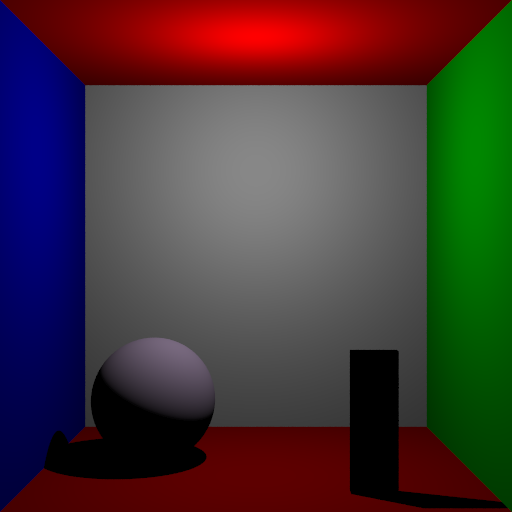
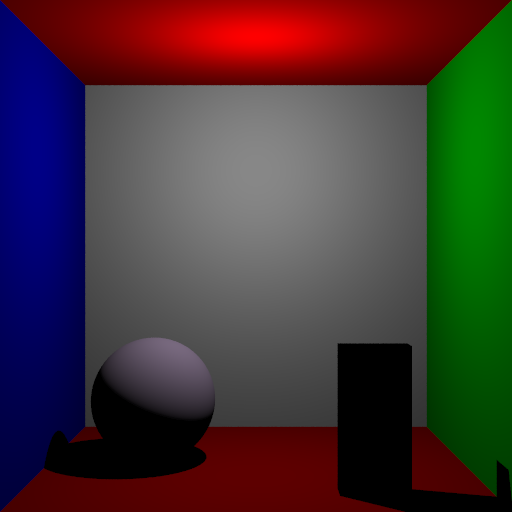
normal en intersecta

Changed region(s): [[0.6562, 0.6562, 1.0, 1.0]]

diff --git a/P4/monolito.cpp b/P4/monolito.cpp
@@ -23,7 +23,7 @@ Monolito::Monolito(PD c, PD i, PD j, PD k, Emision emisionIn, Reflectancia refle
 }
 
 	
-bool Monolito::intersecta(Ray ray, PD& puntoInterseccionOut) const{
+bool Monolito::intersecta(Ray ray, PD& puntoInterseccionOut, PD& normalOut) const{
 	PD aux = ray.origen - centro;
 	//TODO: quizas añadir soporte a todo tipo de paralelepipedo y no solo rectangulo, o al menos comprobar que i,j,k son paralelos
 	const float origen[3] = {
@@ -40,6 +40,11 @@ bool Monolito::intersecta(Ray ray, PD& puntoInterseccionOut) const{
 	float tmin = -numeric_limits<float>::infinity();
 	float tmax = numeric_limits<float>::infinity();
 
+	int ejeMin = 0;
+    float signoMin = 0.0f;
+    int ejeMax = 0;
+    float signoMax = 0.0f;
+
 	for (int eje = 0; eje < 3; ++eje) {
 		if (abs(direccion[eje]) < 1e-6f) {
 			if (abs(origen[eje]) > 1.0f) return false; //si es paralelo y esta fuera, no hay choque
@@ -48,21 +53,49 @@ bool Monolito::intersecta(Ray ray, PD& puntoInterseccionOut) const{
 
 		float t1 = (-1.0f - origen[eje]) / direccion[eje];
 		float t2 = ( 1.0f - origen[eje]) / direccion[eje];
-		if (t1 > t2) swap(t1, t2);
+		float s1 = -1.0f; //normal hacia -u
+		float s2 = 1.0f; //normal hacia u
 
-		tmin = max(tmin, t1); //la entrada mas rande
-		tmax = min(tmax, t2); //la salida mas pequeña
+		if (t1 > t2) {
+			swap(t1, t2);
+			swap(s1, s2);
+		}
+
+		if(t1 > tmin) {
+			tmin = t1;
+			ejeMin = eje;
+			signoMin = s1;
+		}
+		if(t2 < tmax){
+			tmax = t2;
+			ejeMax = eje;
+			signoMax = s2;
+		}
+
 		if (tmin > tmax) return false;
 	}
 
 	if (tmax < 1e-6f) return false; //monolito detras del rayo
 
-	//si tmin <0 el rayo sale de dentro, la salida tmax es el primer punto de contacto
-	float tHit = (tmin >= 0) ? tmin : tmax;
+	float tHit;
+    int ejeHit;
+    float signoHit;
 
-	//no se compara con 0 por si el rayo saliera directamente de la superficie del monolito
+    if (tmin >= 1e-4f) { //no comparo con 0 para que no se choque consigo mismo un rayo que salga de la superficie
+        //impacto exterior normal
+        tHit = tmin;
+        ejeHit = ejeMin;
+        signoHit = signoMin;
+    } else {
+        //si sale de dentro
+        tHit = tmax;
+        ejeHit = ejeMax;
+        signoHit = signoMax;
+    }
 
 	puntoInterseccionOut = ray.origen + ray.direccion * tHit;
+	const PD ejes[3] = { uI, uJ, uK };
+	normalOut = ejes[ejeHit] * signoHit;
 	return true;
 }
 

diff --git a/P4/ray.cpp b/P4/ray.cpp
@@ -31,15 +31,17 @@ bool Ray::intersecta(Escena escena, PD& puntoInterseccionOut, Emision& emisionOu
 	emisionOut.g = 0;
 	emisionOut.b = 0;
 	PD puntoInterseccionTemp;
+	PD normal, normalAux;
 	Primitiva* primitivaCercana;
 
 	for (const auto& primitiva : escena.primitivas) {
-		if (primitiva->intersecta(*this, puntoInterseccionTemp)) {
+		if (primitiva->intersecta(*this, puntoInterseccionTemp, normalAux)) {
 			float distancia = (puntoInterseccionTemp - origen).module();
 			if (distancia < distanciaMinima) {
 				distanciaMinima = distancia;
 				primitivaCercana = primitiva;
 				puntoInterseccionOut = puntoInterseccionTemp;
+				normal = normalAux;
 				interseccionEncontrada = true;
 			}
 		}
@@ -48,7 +50,6 @@ bool Ray::intersecta(Escena escena, PD& puntoInterseccionOut, Emision& emisionOu
 	if(interseccionEncontrada){
 		Emision emLuz = {0,0,0};
 
-		PD normal = primitivaCercana -> getNormal(puntoInterseccionOut);
 		if(normal.dot(this->direccion) > 0) { //si esta mirando hacia el otro lado
 			normal = normal * -1.0;
 		}
@@ -61,9 +62,10 @@ bool Ray::intersecta(Escena escena, PD& puntoInterseccionOut, Emision& emisionOu
 			Ray rayoSombra(puntoInterseccionOut + normal * 0.00001f, wi);
 			bool enSombra = false;
 			PD puntoInterseccionRayoSombra;
+			PD auxNormal;
 
 			for (const auto& primitiva : escena.primitivas) {
-				if (primitiva->intersecta(rayoSombra, puntoInterseccionRayoSombra)) {
+				if (primitiva->intersecta(rayoSombra, puntoInterseccionRayoSombra, auxNormal)) {
 					float distObstaculo = (puntoInterseccionRayoSombra - rayoSombra.origen).module();
 					if (distObstaculo < dist) {
 						enSombra = true;

diff --git a/P4/esfera.cpp b/P4/esfera.cpp
@@ -8,7 +8,7 @@ Esfera::Esfera(PD centroIn, float radioIn, Emision emisionIn, Reflectancia refle
 { if(!centroIn.isPoint()) std::cerr << "El centro de la esfera debe ser un punto" << std::endl; }
 
 	
-bool Esfera::intersecta(Ray ray, PD& puntoInterseccionOut) const{
+bool Esfera::intersecta(Ray ray, PD& puntoInterseccionOut, PD& normalOut) const{
 	PD aux = (ray.origen - this->centro);
 	float a = 1; //t^2*|d^2| //modulo de d al cuadrado, es unitario asi que 1
 	float b = 2*(ray.direccion.dot(aux)); // 2td · (o-c)
@@ -24,6 +24,9 @@ bool Esfera::intersecta(Ray ray, PD& puntoInterseccionOut) const{
 	if (t < 0) return false; //para atras no los cuento
 
 	puntoInterseccionOut = ray.origen + ray.direccion * t;
+	
+	aux = puntoInterseccionOut - this->centro;
+	normalOut = aux/aux.module();
 	return true;
 	
 }

diff --git a/P4/plano.cpp b/P4/plano.cpp
@@ -9,7 +9,7 @@ Plano::Plano(float distanciaIn, PD normalIn, Emision emisionIn, Reflectancia ref
     this->normal = normalIn/normalIn.module();
 }
 
-bool Plano::intersecta(Ray ray, PD& puntoInterseccionOut) const{
+bool Plano::intersecta(Ray ray, PD& puntoInterseccionOut, PD& normalOut) const{
     bool hay_interseccion=false;
     if(normal.dot(ray.direccion)!=0){
         PD origenVector(ray.origen[0], ray.origen[1], ray.origen[2], 0); // convertir origen en vector para esta operación
@@ -19,6 +19,7 @@ bool Plano::intersecta(Ray ray, PD& puntoInterseccionOut) const{
             hay_interseccion=true;
         }
     }
+    normalOut = this->normal;
     return hay_interseccion;
 }
 

diff --git a/P4/primitiva.hpp b/P4/primitiva.hpp
@@ -17,7 +17,7 @@ class Primitiva {
         Reflectancia reflectancia;
 
         explicit Primitiva(Emision emisionIn, Reflectancia reflectanciaIn):emision(emisionIn), reflectancia(reflectanciaIn)  {}; 
-        virtual bool intersecta(Ray ray, PD& puntoInterseccionOut) const = 0;
+        virtual bool intersecta(Ray ray, PD& puntoInterseccionOut, PD& normalOut) const = 0;
         virtual PD getNormal(const PD& punto) const = 0;
 
 		virtual ~Primitiva() = default;

diff --git a/P4/triangulo.hpp b/P4/triangulo.hpp
@@ -1,0 +1,17 @@
+#ifndef TRIANGULO_HPP
+#define TRIANGULO_HPP
+
+#include "primitiva.hpp"
+#include "pd.hpp"
+#include "ray.hpp"
+
+class Triangulo : public Primitiva {
+public:
+	PD p1, p2, p3;
+
+	Triangulo(PD p1, PD p2, PD p3, Emision emisionIn, Reflectancia reflectanciaIn);
+	bool intersecta(Ray ray, PD& puntoInterseccionOut, PD& normalOut) const override;
+	PD getNormal(const PD& punto) const override;
+}; 
+
+#endif // TRIANGULO_HPP

diff --git a/P4/plano.hpp b/P4/plano.hpp
@@ -11,7 +11,7 @@ public:
     PD normal;
 
 	Plano(float distanciaIn, PD normalIn, Emision emisionIn, Reflectancia reflectanciaIn);
-	bool intersecta(Ray ray, PD& puntoInterseccionOut) const override;
+	bool intersecta(Ray ray, PD& puntoInterseccionOut, PD& normalOut) const override;
 	PD getNormal(const PD& punto) const override;
 }; 
 

diff --git a/P4/esfera.hpp b/P4/esfera.hpp
@@ -11,7 +11,7 @@ public:
 	float radio;
 
 	Esfera(PD centroIn, float radioIn, Emision emisionIn, Reflectancia reflectanciaIn);
-	bool intersecta(Ray ray, PD& puntoInterseccionOut) const override;
+	bool intersecta(Ray ray, PD& puntoInterseccionOut, PD& normalOut) const override;
 	PD getNormal(const PD& punto) const override;
 }; 
 

diff --git a/P4/monolito.hpp b/P4/monolito.hpp
@@ -14,7 +14,7 @@ public:
 
 
 	Monolito(PD centro, PD i, PD j, PD k, Emision emisionIn, Reflectancia reflectanciaIn);
-	bool intersecta(Ray ray, PD& puntoInterseccionOut) const override;
+	bool intersecta(Ray ray, PD& puntoInterseccionOut, PD& normalOut) const override;
 	PD getNormal(const PD& punto) const override;
 }; 
 

diff --git a/P4/main.cpp b/P4/main.cpp
@@ -42,7 +42,7 @@ int main() {
 	Esfera leftEsfera(PD(-0.5,-0.7,0.25,1), 0.3, emisionEsferaLeft, {1});
 	Monolito rightMonolito(
 		PD(0.5,-0.7,-0.25,1),
-		PD(0.2,0,0,0), PD(0,0.6,0,0), PD(0,0,0.05,0),
+		PD(0.3,0,0,0), PD(0,0.65,0,0), PD(0,0,0.1,0),
 		{0,0,0}, {1});
 	
 	escena.primitivas.push_back(&leftPlane);
